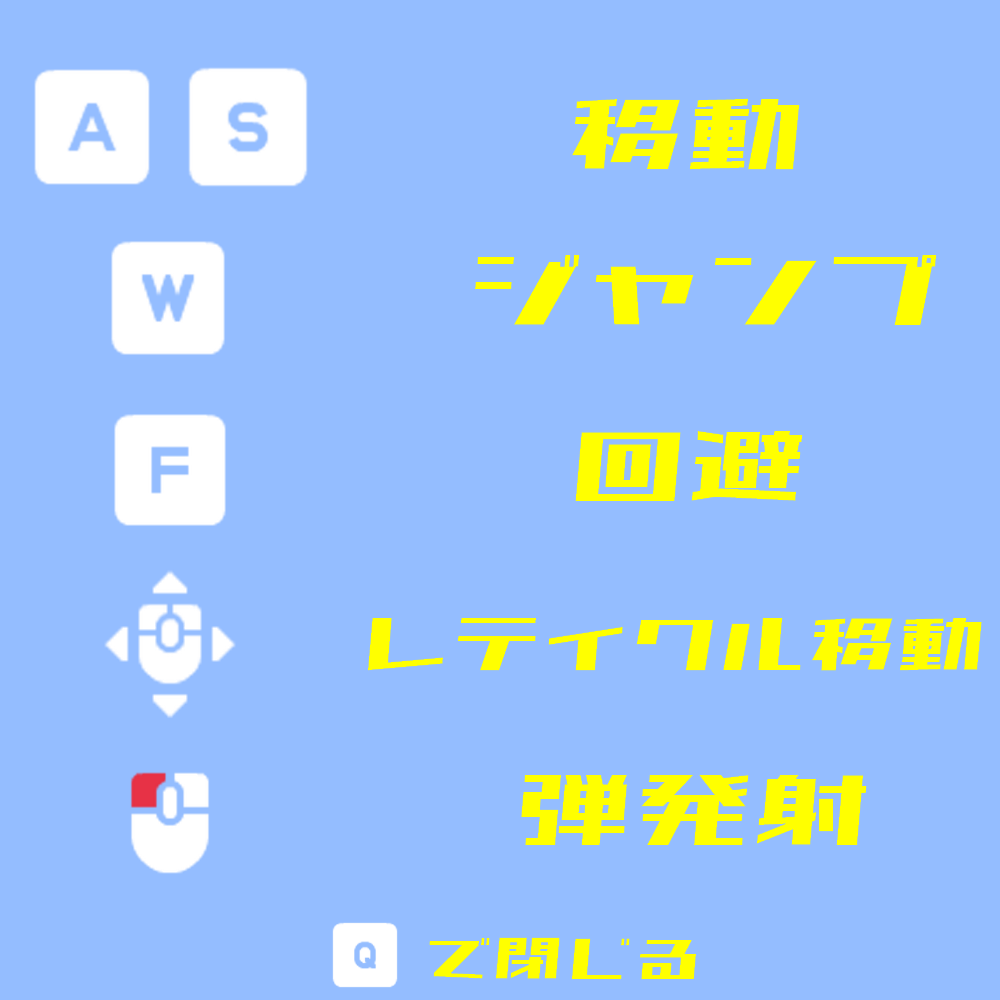
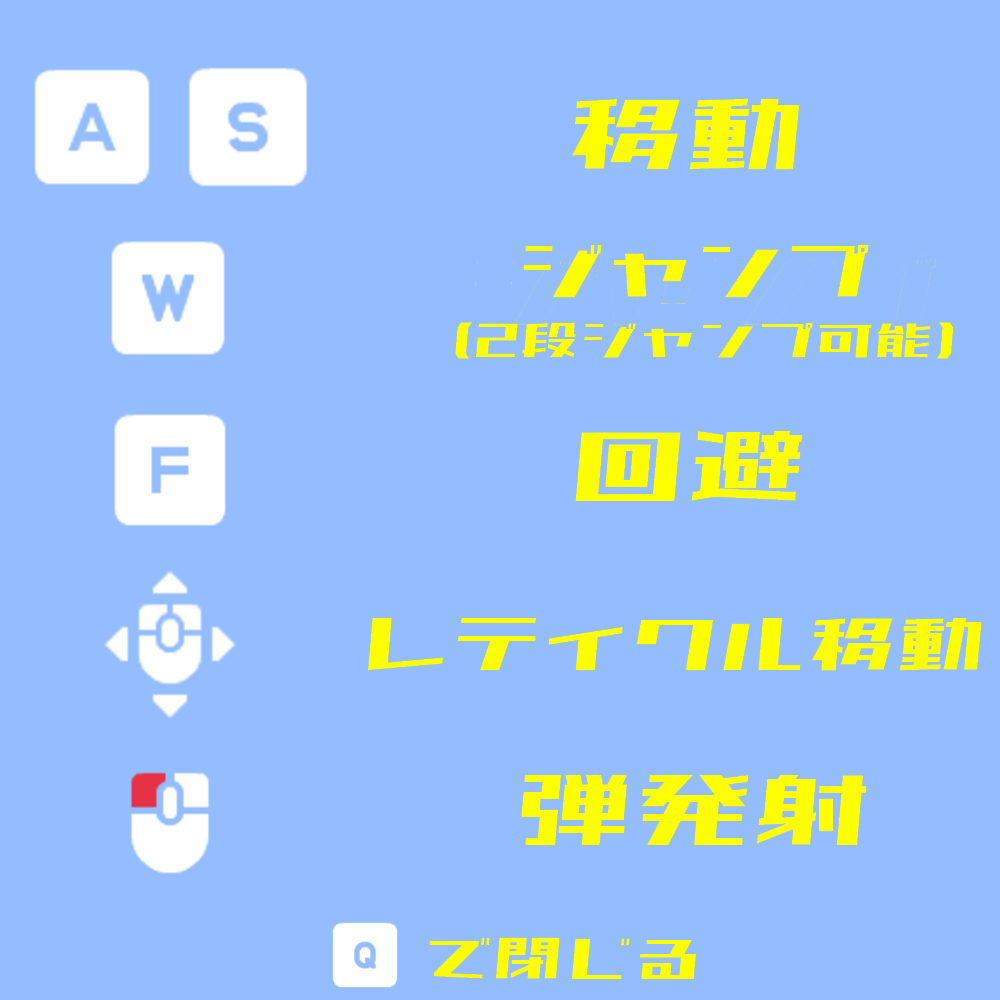
操作説明画面とjson変更

Changed region(s): [[0.434, 0.248, 0.961, 0.372]]

diff --git a/project/game/scene/GameScene.cpp b/project/game/scene/GameScene.cpp
@@ -120,7 +120,7 @@ void GameScene::Update() {
 	MyEngine::CameraManager::GetInstance()->GetActiveCamera()->Update();
 
 	// 一時停止フラグ切り替え
-	if (!is_start_animation_ && !is_returning_ && MyEngine::Input::GetInstance()->IsKeyTriggered(DIK_Q)) {
+	if (!is_start_animation_ && !is_returning_ && is_gameplay_active_&& MyEngine::Input::GetInstance()->IsKeyTriggered(DIK_Q)) {
 		is_game_pause_ = !is_game_pause_;
 	}
 	// UIに一時停止フラグをセット
@@ -413,7 +413,7 @@ void GameScene::StartAnimation() {
 		//収束終了
 		if (t >= 1.0f) {
 			is_returning_ = false;
-			// UIにゲームスタート演出終了を通知
+			//ゲームスタート演出開始
 			ui_->StartGameStartAnimation();
 		}
 	}

diff --git a/project/game/ui/Ui.cpp b/project/game/ui/Ui.cpp
@@ -384,17 +384,17 @@ void Ui::CreateSprite(SpriteType type,
 //ゲームスタートアニメーション開始
 void Ui::StartGameStartAnimation()
 {
-	//すでに開始している場合はスキップ
+	
 	has_started_game_start_ = true;
-
+	//アニメーション状態初期化
 	game_start_state_ = GameStartState::SlideIn;
-
+	//タイマー初期化
 	game_start_timer_ = 0.0f;
 	game_start_animation_time_ = 0.0f;
-
+	//スライドの開始・終了位置設定
 	slide_start_x_ = -360.0f;
 	slide_end_x_ = screen_center_x;
-
+	//ゲームスタート文字の初期位置設定
 	game_start_pos_ = { slide_start_x_,360.0f };
 
 	Get(SpriteType::GameStart)->SetPosition(game_start_pos_);
